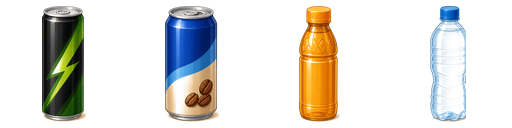
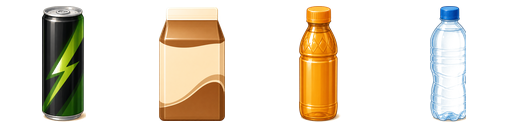
Replace canned coffee with coffee milk

Changed region(s): [[0.3125, 0.0312, 0.4375, 0.9688]]

diff --git a/index.html b/index.html
@@ -3748,7 +3748,7 @@ function buildFourteenDayScenarios(){
         "text": "지금은 점심시간, 점심을 먹고 나니 눈이 스르르 감긴다. 5교시는 제일 어려운 수학이다. 매점에 갈까, 잠깐 몸을 움직일까, 그냥 버틸까?",
         "choices": [
             {
-                "text": "☕ 매점에서 캔커피를 마신다.",
+                "text": "🥛 매점에서 커피우유를 마신다.",
                 "good": false,
                 "delta": {
                     "knowledge": 10,
@@ -3756,9 +3756,9 @@ function buildFourteenDayScenarios(){
                 },
                 "result": {
                     "title": "선택 결과",
-                    "text": "[선택 결과] 캔커피를 마셨다. 카페인 81mg을 섭취했고, 잠은 깼지만 심장이 두근거리고 몸이 긴장된다."
+                    "text": "[선택 결과] 커피우유를 마셨다. 카페인 115mg을 섭취했고, 달콤하지만 오늘 카페인 총량이 크게 늘었다."
                 },
-                "caffeineMg": 81,
+                "caffeineMg": 115,
                 "nextLocation": "🏪 D-7 방과후"
             },
             {
@@ -3820,7 +3820,7 @@ function buildFourteenDayScenarios(){
                 "title": "편의점 음료 카페인",
                 "facts": [
                     "에너지드링크: 카페인 100mg",
-                    "캔커피: 카페인 81mg",
+                    "커피우유: 카페인 115mg",
                     "비타민음료: 카페인 0mg",
                     "물: 카페인 0mg"
                 ]
@@ -4874,8 +4874,8 @@ function renderClueCafBar(){
 }
 
 function renderCvsDrinks(actionName='pickClueDrink'){
-  const featured = ['energy','cancoffee','vitamin','water'];
-  const spritePos = {energy:'0%', cancoffee:'33.333%', vitamin:'66.666%', water:'100%'};
+  const featured = ['energy','coffeeMilk','vitamin','water'];
+  const spritePos = {energy:'0%', coffeeMilk:'33.333%', vitamin:'66.666%', water:'100%'};
   const rows = featured.map(id => {
     const drink = DRINK_MENU.cvs.find(d => d.id === id);
     if(!drink) return '';
